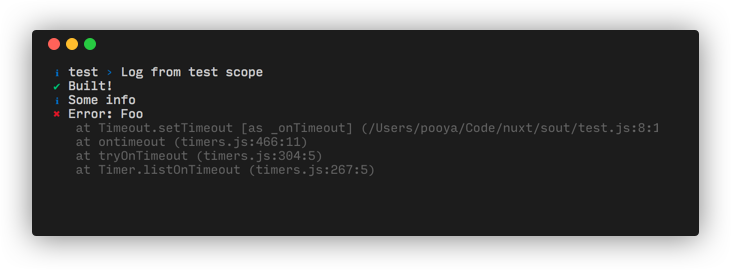
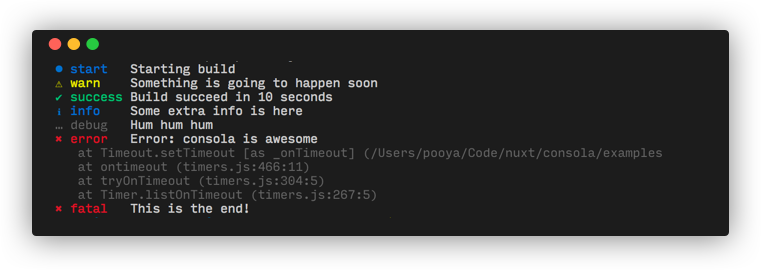
feat: rewrite FancyReporter without ora

Changed region(s): [[0.0602, 0.237, 0.9029, 0.8], [0.0602, 0.1481, 0.1204, 0.1778]]

diff --git a/src/reporters/fancy.js b/src/reporters/fancy.js
@@ -1,28 +1,36 @@
 import chalk from 'chalk'
-import ORA from 'ora'
 import figures from 'figures'
+import _ from 'lodash'
 
 const NS_SEPERATOR = chalk.blue(figures(' › '))
 
-const ORA_FN = {
-  start: 'start',
-  success: 'succeed',
-  error: 'fail',
-  warn: 'warn',
-  info: 'info'
+const ICONS = {
+  start: figures('●'),
+  info: figures('ℹ'),
+  success: figures('✔'),
+  error: figures('✖'),
+  fatal: figures('✖'),
+  warn: figures('⚠'),
+  debug: figures('…'),
+  trace: figures('…'),
+  default: figures('❯'),
+  ready: figures('♥')
 }
+
+const pad = str => _.padEnd(str, 9)
 
 export default class FancyReporter {
   constructor (stream, options = {}) {
     this.stream = stream || process.stderr
+  }
 
-    this.ora = new ORA(this.stream, Object.assign({
-      hideCursor: false
-    }, options.ora))
+  formatBadge (type, color = 'blue') {
+    return chalk['bg' + _.startCase(color)].black(` ${type.toUpperCase()} `) + ' '
   }
 
   formatTag (type, color = 'blue') {
-    return chalk.bgKeyword(color).black(` ${type.toUpperCase()} `)
+    const icon = ICONS[type] || ICONS.default
+    return chalk[color](pad(`${icon} ${type.toLowerCase()}`)) + ' '
   }
 
   clear () {
@@ -33,26 +41,24 @@ export default class FancyReporter {
     let message = logObj.message
 
     if (logObj.scope) {
-      message = logObj.scope.replace(/:/g, '>') + '>' + message
+      message =
+        (logObj.scope.replace(/:/g, '>') + '>').split('>').join(NS_SEPERATOR) +
+        message
     }
-
-    message = message.replace(/>/g, NS_SEPERATOR)
 
     if (logObj.clear) {
       this.clear()
     }
 
-    const oraFn = ORA_FN[logObj.type]
-
-    if (oraFn && logObj.badge !== true) {
-      this.ora[oraFn](message)
+    if (logObj.badge) {
+      this.stream.write('\n\n' + this.formatBadge(logObj.type, logObj.color) + message + '\n\n')
     } else {
-      this.stream.write('\n\n' + this.formatTag(logObj.type, logObj.color) + ' ' + message + '\n\n')
+      this.stream.write(this.formatTag(logObj.type, logObj.color) + message + '\n')
     }
 
     if (logObj.additional) {
       const lines = logObj.additional.split('\n').map(s => '   ' + s).join('\n')
-      this.stream.write(chalk.grey(lines) + '\n\n')
+      this.stream.write(chalk.grey(lines) + '\n')
     }
   }
 }

diff --git a/examples/basic.js b/examples/basic.js
@@ -2,8 +2,12 @@ const consola = require('..')
 
 consola.start('Starting build')
 
+consola.warn('Something is going to happen soon')
+
 setTimeout(() => {
-  consola.success('Built!')
-  consola.info('Some info')
-  consola.error(new Error('Foo'))
+  consola.success('Build succeed in 10 seconds')
+  consola.info('Some extra info is here')
+  consola.debug('Hum hum hum')
+  consola.error(new Error('consola is awesome'))
+  consola.fatal('This is the end!')
 }, 1500)

diff --git a/README.md b/README.md
@@ -8,7 +8,6 @@ Elegant Console Logger
 - Fancy output with Fallback for CI environments
 - A global mockable stdout/stderr wrapper
 - Pluggable reporters
-- [ORA](https://github.com/sindresorhus/ora) integration
 - Consistance CLI experience
 - Scoped Loggers
 
